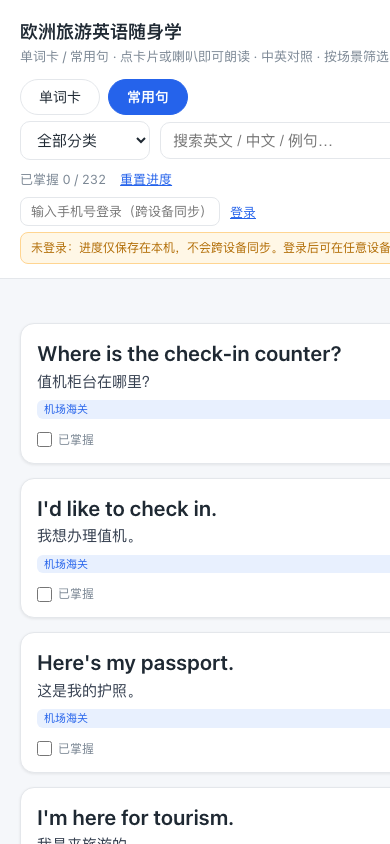
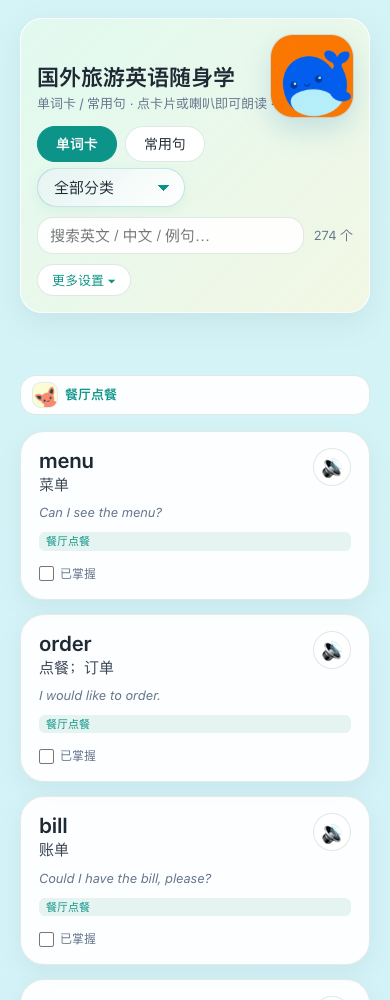
Refresh latest gin words preview

diff --git a/2026-08-11-09-37-38/dist/index.html b/2026-08-11-09-37-38/dist/index.html
@@ -9,7 +9,6 @@
   :root{
     --bg:#f5fbf7; --panel:#ffffff; --text:#1f2933; --muted:#64748b;
     --line:#dfe8e4; --accent:#0d9488; --accent-soft:#e6f4f1; --shadow:0 10px 30px rgba(15,64,56,.08);
-    --header-h:160px;
   }
   *{box-sizing:border-box;}
   body{
@@ -22,8 +21,7 @@
     line-height:1.5; -webkit-font-smoothing:antialiased;
   }
   header{
-    padding:18px 20px 12px; position:sticky; top:0; z-index:10;
-    background:rgba(245,251,247,.82); backdrop-filter:blur(18px);
+    padding:18px 20px 12px;
   }
   .header-inner{
     max-width:960px; margin:0 auto; padding:18px; border:1px solid rgba(255,255,255,.8);
@@ -114,7 +112,7 @@
   .header-extras{display:none; margin-top:10px;}
   .header-extras.open{display:block;}
   .group-head{
-    grid-column:1/-1; position:sticky; top:var(--header-h); z-index:5;
+    grid-column:1/-1;
     background:rgba(255,255,255,.94); border:1px solid var(--line); border-radius:16px;
     padding:7px 12px; margin:4px 0 2px;
     font-size:13px; font-weight:600; color:var(--accent);
@@ -1015,7 +1013,7 @@
     var visible = filtered.slice();
     if(!cat){ visible.sort(function(a,b){ return a.cat.localeCompare(b.cat, "zh-CN"); }); }
     visible.forEach(function(w){
-      // 「全部分类」时按分类插入 sticky 分组标题，便于扫读
+      // 「全部分类」时按分类插入分组标题，便于扫读
       if(!cat && w.cat !== lastGroup){
         lastGroup = w.cat;
         var gh = document.createElement("div");
@@ -1143,20 +1141,12 @@
   // 「更多设置」折叠：把进度 / 登录区收起，首屏更清爽
   var extrasToggle = document.getElementById("extrasToggle");
   var headerExtras = document.getElementById("headerExtras");
-  // 分组标题 sticky 偏移 = header 真实高度（折叠/展开/缩放都重测，避免错位）
-  function syncHeaderH(){
-    var h = document.querySelector("header");
-    if(h) document.documentElement.style.setProperty("--header-h", h.offsetHeight + "px");
-  }
   extrasToggle.addEventListener("click", function(){
     var open = headerExtras.classList.toggle("open");
     extrasToggle.setAttribute("aria-expanded", open ? "true" : "false");
     extrasToggle.textContent = open ? "收起设置 ▴" : "更多设置 ▾";
-    syncHeaderH();
   });
-  window.addEventListener("resize", syncHeaderH);
   listEl.setAttribute("aria-labelledby", "tab-words");
-  syncHeaderH();
 
   // 初始化：支持 #words / #sentences 直达
   var initialMode = (location.hash || "").replace("#","");

diff --git a/2026-08-11-09-37-38/index.html b/2026-08-11-09-37-38/index.html
@@ -9,7 +9,6 @@
   :root{
     --bg:#f5fbf7; --panel:#ffffff; --text:#1f2933; --muted:#64748b;
     --line:#dfe8e4; --accent:#0d9488; --accent-soft:#e6f4f1; --shadow:0 10px 30px rgba(15,64,56,.08);
-    --header-h:160px;
   }
   *{box-sizing:border-box;}
   body{
@@ -22,8 +21,7 @@
     line-height:1.5; -webkit-font-smoothing:antialiased;
   }
   header{
-    padding:18px 20px 12px; position:sticky; top:0; z-index:10;
-    background:rgba(245,251,247,.82); backdrop-filter:blur(18px);
+    padding:18px 20px 12px;
   }
   .header-inner{
     max-width:960px; margin:0 auto; padding:18px; border:1px solid rgba(255,255,255,.8);
@@ -114,7 +112,7 @@
   .header-extras{display:none; margin-top:10px;}
   .header-extras.open{display:block;}
   .group-head{
-    grid-column:1/-1; position:sticky; top:var(--header-h); z-index:5;
+    grid-column:1/-1;
     background:rgba(255,255,255,.94); border:1px solid var(--line); border-radius:16px;
     padding:7px 12px; margin:4px 0 2px;
     font-size:13px; font-weight:600; color:var(--accent);
@@ -1015,7 +1013,7 @@
     var visible = filtered.slice();
     if(!cat){ visible.sort(function(a,b){ return a.cat.localeCompare(b.cat, "zh-CN"); }); }
     visible.forEach(function(w){
-      // 「全部分类」时按分类插入 sticky 分组标题，便于扫读
+      // 「全部分类」时按分类插入分组标题，便于扫读
       if(!cat && w.cat !== lastGroup){
         lastGroup = w.cat;
         var gh = document.createElement("div");
@@ -1143,20 +1141,12 @@
   // 「更多设置」折叠：把进度 / 登录区收起，首屏更清爽
   var extrasToggle = document.getElementById("extrasToggle");
   var headerExtras = document.getElementById("headerExtras");
-  // 分组标题 sticky 偏移 = header 真实高度（折叠/展开/缩放都重测，避免错位）
-  function syncHeaderH(){
-    var h = document.querySelector("header");
-    if(h) document.documentElement.style.setProperty("--header-h", h.offsetHeight + "px");
-  }
   extrasToggle.addEventListener("click", function(){
     var open = headerExtras.classList.toggle("open");
     extrasToggle.setAttribute("aria-expanded", open ? "true" : "false");
     extrasToggle.textContent = open ? "收起设置 ▴" : "更多设置 ▾";
-    syncHeaderH();
   });
-  window.addEventListener("resize", syncHeaderH);
   listEl.setAttribute("aria-labelledby", "tab-words");
-  syncHeaderH();
 
   // 初始化：支持 #words / #sentences 直达
   var initialMode = (location.hash || "").replace("#","");

diff --git a/index.html b/index.html
@@ -9,7 +9,6 @@
   :root{
     --bg:#f5fbf7; --panel:#ffffff; --text:#1f2933; --muted:#64748b;
     --line:#dfe8e4; --accent:#0d9488; --accent-soft:#e6f4f1; --shadow:0 10px 30px rgba(15,64,56,.08);
-    --header-h:160px;
   }
   *{box-sizing:border-box;}
   body{
@@ -22,8 +21,7 @@
     line-height:1.5; -webkit-font-smoothing:antialiased;
   }
   header{
-    padding:18px 20px 12px; position:sticky; top:0; z-index:10;
-    background:rgba(245,251,247,.82); backdrop-filter:blur(18px);
+    padding:18px 20px 12px;
   }
   .header-inner{
     max-width:960px; margin:0 auto; padding:18px; border:1px solid rgba(255,255,255,.8);
@@ -114,7 +112,7 @@
   .header-extras{display:none; margin-top:10px;}
   .header-extras.open{display:block;}
   .group-head{
-    grid-column:1/-1; position:sticky; top:var(--header-h); z-index:5;
+    grid-column:1/-1;
     background:rgba(255,255,255,.94); border:1px solid var(--line); border-radius:16px;
     padding:7px 12px; margin:4px 0 2px;
     font-size:13px; font-weight:600; color:var(--accent);
@@ -1015,7 +1013,7 @@
     var visible = filtered.slice();
     if(!cat){ visible.sort(function(a,b){ return a.cat.localeCompare(b.cat, "zh-CN"); }); }
     visible.forEach(function(w){
-      // 「全部分类」时按分类插入 sticky 分组标题，便于扫读
+      // 「全部分类」时按分类插入分组标题，便于扫读
       if(!cat && w.cat !== lastGroup){
         lastGroup = w.cat;
         var gh = document.createElement("div");
@@ -1143,20 +1141,12 @@
   // 「更多设置」折叠：把进度 / 登录区收起，首屏更清爽
   var extrasToggle = document.getElementById("extrasToggle");
   var headerExtras = document.getElementById("headerExtras");
-  // 分组标题 sticky 偏移 = header 真实高度（折叠/展开/缩放都重测，避免错位）
-  function syncHeaderH(){
-    var h = document.querySelector("header");
-    if(h) document.documentElement.style.setProperty("--header-h", h.offsetHeight + "px");
-  }
   extrasToggle.addEventListener("click", function(){
     var open = headerExtras.classList.toggle("open");
     extrasToggle.setAttribute("aria-expanded", open ? "true" : "false");
     extrasToggle.textContent = open ? "收起设置 ▴" : "更多设置 ▾";
-    syncHeaderH();
   });
-  window.addEventListener("resize", syncHeaderH);
   listEl.setAttribute("aria-labelledby", "tab-words");
-  syncHeaderH();
 
   // 初始化：支持 #words / #sentences 直达
   var initialMode = (location.hash || "").replace("#","");
